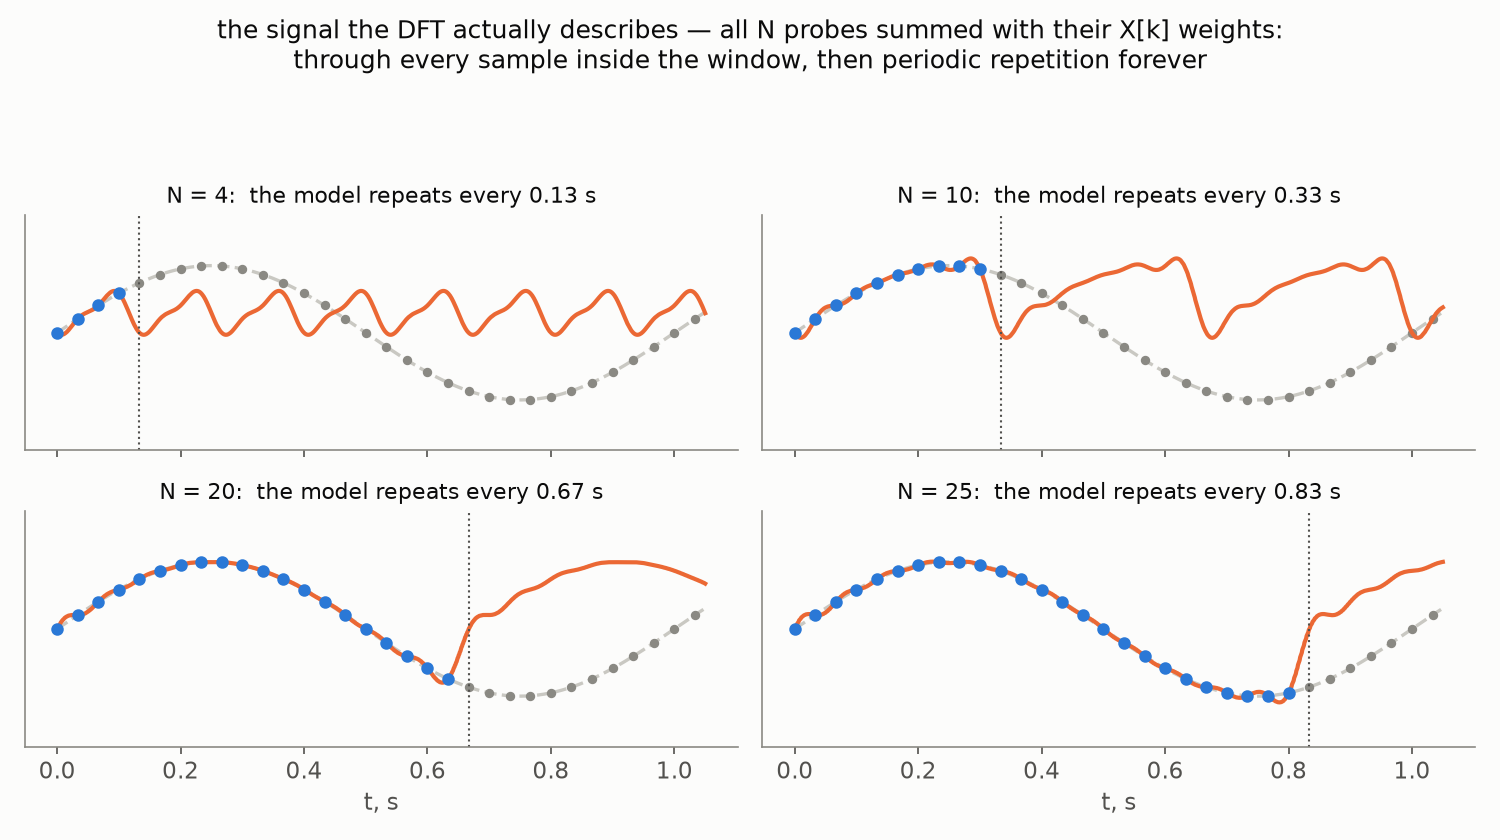
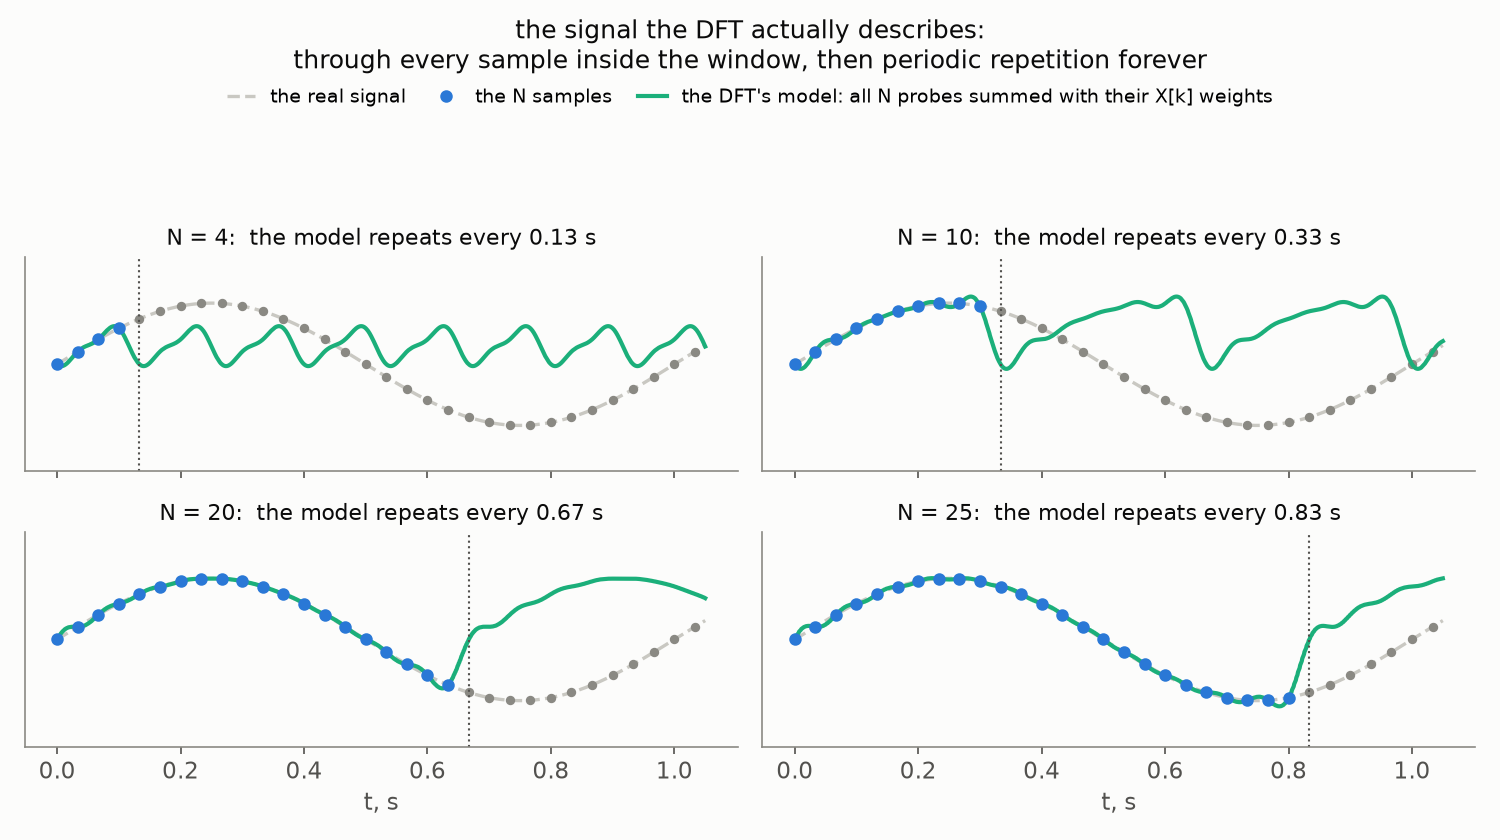
DFT-model figures: recolor the model to aqua, add legends to both
The orange stays reserved for the k=1 probe; the model - a different
object - gets its own color and an explicit legend entry.

diff --git a/content/posts/fourier-series-to-spectrogram-part-2/index.md b/content/posts/fourier-series-to-spectrogram-part-2/index.md
@@ -114,7 +114,7 @@ the signal the DFT actually believes in:
 
 ![The DFT's model of the signal — the weighted probe sum — for four recording lengths](dft_model.png)
 
-Two things to see here. Inside the window, the orange sum passes through
+Two things to see here. Inside the window, the green model passes through
 every blue sample *exactly* — $N$ numbers in, $N$ numbers out, the books
 balance as always. Outside the window, it does the only thing a sum of
 whole-turn oscillations can do: **repeats**, with the window's own period.
